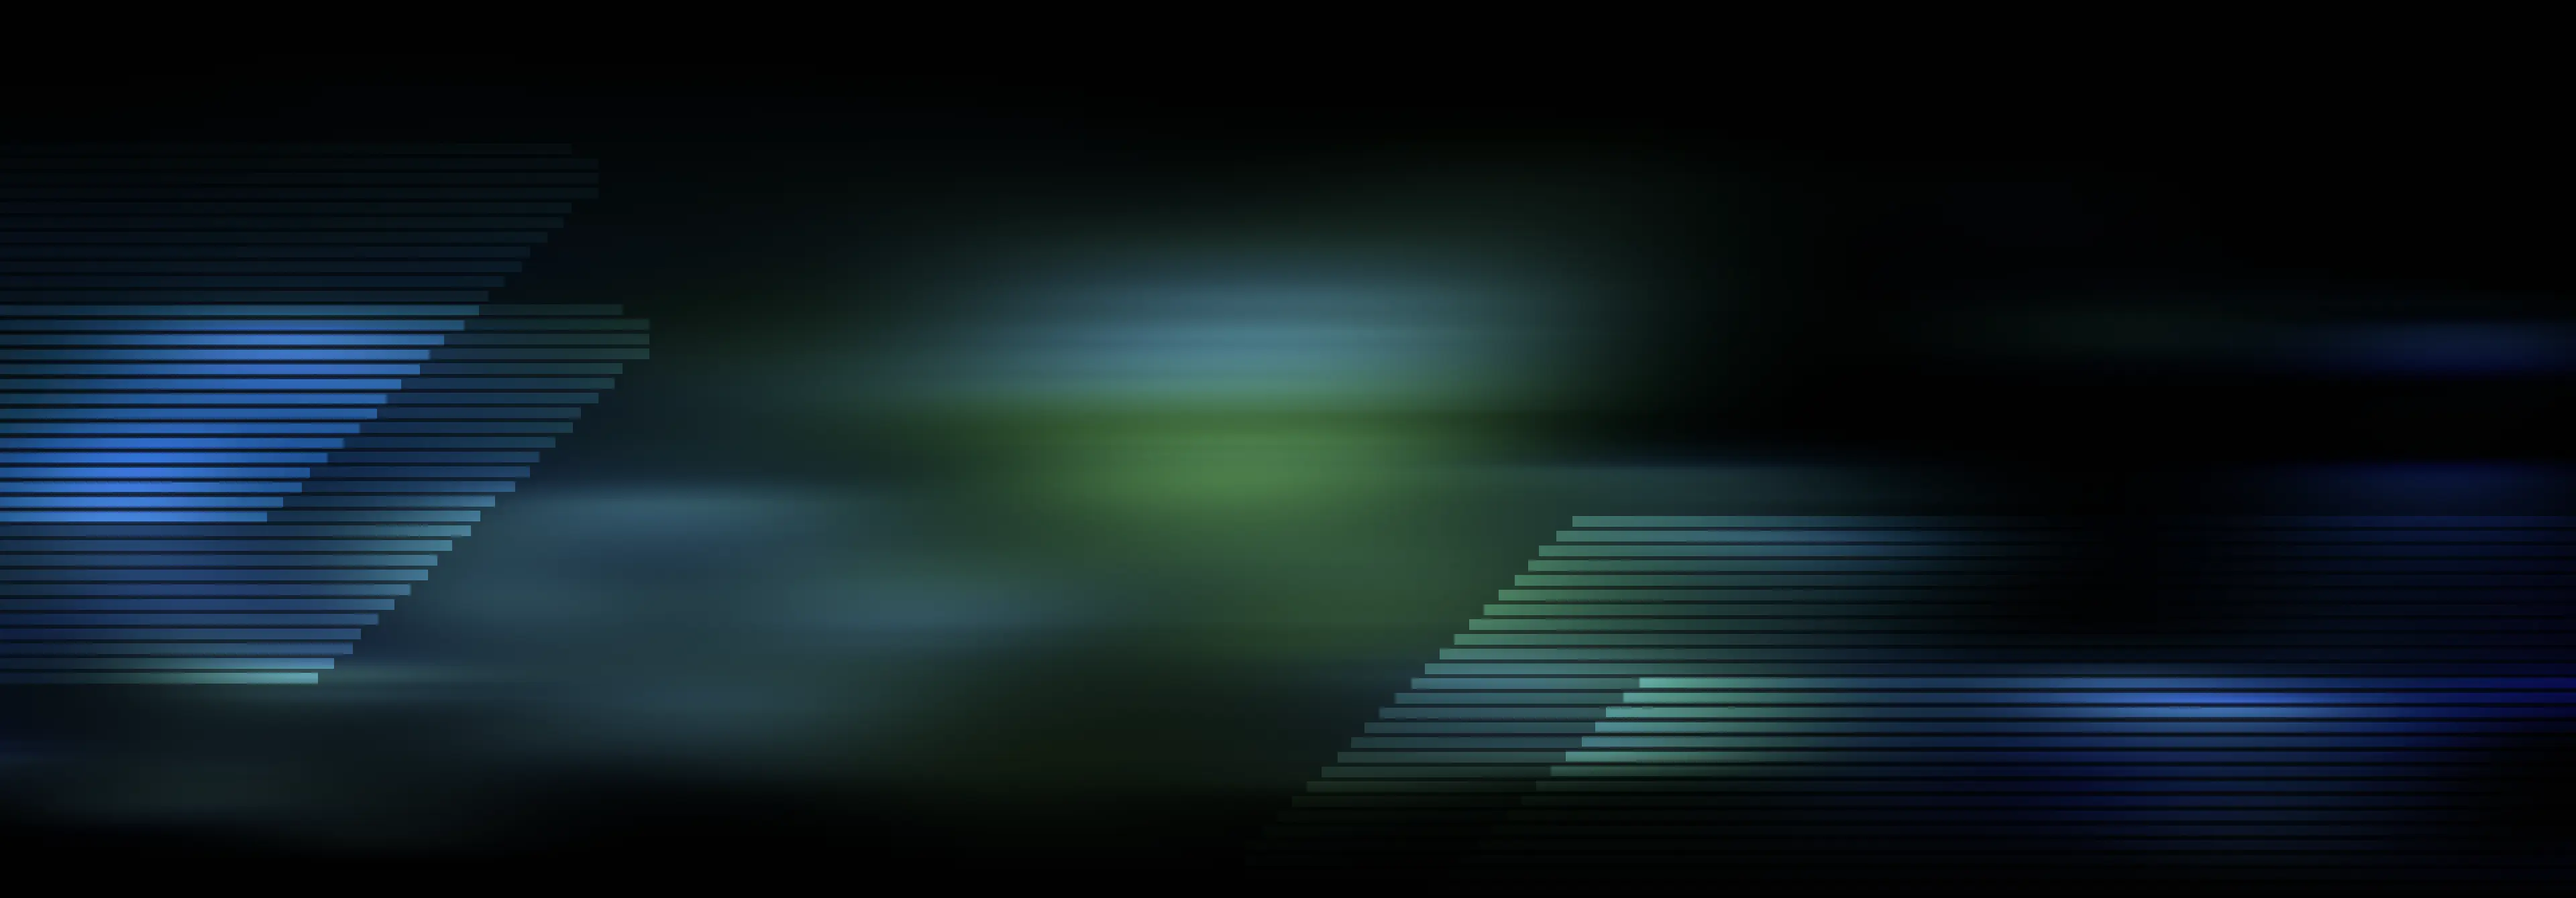
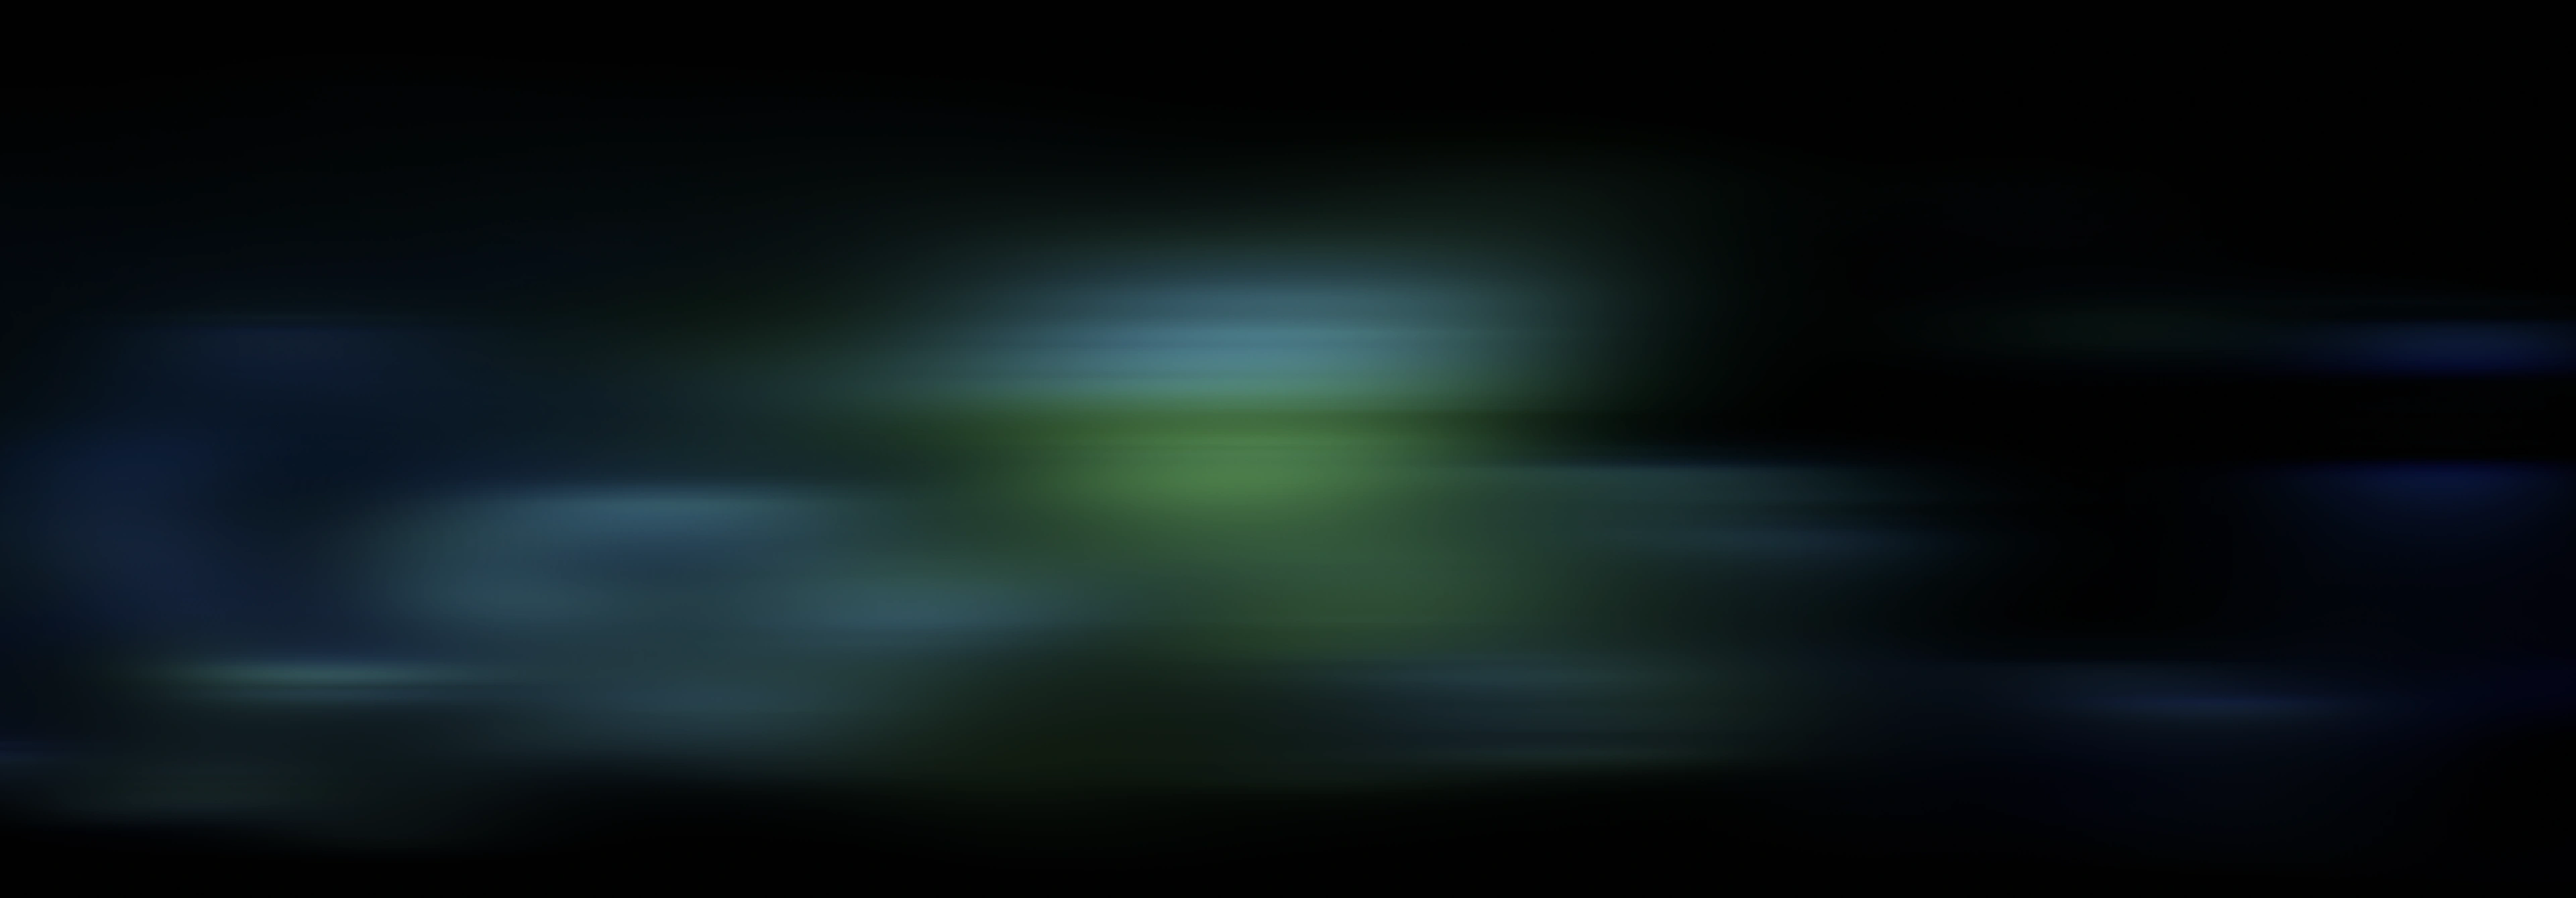
Fix images, header, footer styles

Changed region(s): [[0.5, 0.5507, 1.0, 0.9485], [0.0, 0.3366, 0.25, 0.7649], [0.9062, 0.5507, 0.9688, 0.6119]]

diff --git a/apps/web/src/components/solutions/decor.v2.tsx b/apps/web/src/components/solutions/decor.v2.tsx
@@ -7,15 +7,48 @@ export type DecorProps = {
 
 export const Decor = ({ imageSrc }: DecorProps) => {
   return (
-    <div className="relative pointer-events-none">
+    <div className="relative pointer-events-none h-0 xl:my-[40px]">
       {imageSrc && (
-        <Image
-          className="top-0 left-0 !b-auto h-auto object-cover -translate-y-1/2  min-h-[320px]"
-          src={imageSrc}
-          alt=""
-          fill={true}
-          loading="lazy"
-        />
+        <div className="relative top-0 left-0 h-[300px] xl:h-[600px] -translate-y-1/2  min-h-[300px] overflow-hidden">
+          <div
+            className="absolute top-0 left-0 w-full h-full bg-[length:100%_100%] bg-center"
+            style={{ backgroundImage: `url(${imageSrc})` }}
+          />
+          <div className="absolute top-[50%] left-0 w-full h-0">
+            <Image
+              className="object-cover max-w-none absolute bottom-[-100px] left-[-450px] md:left-[-200px] xl:bottom-[-200px] xl:left-[-1000px] w-[706px] h-[142px] xl:w-[1411px] xl:h-[283px] mix-blend-overlay"
+              src={"/src/img/solutions/decoration-left-part.svg"}
+              alt=""
+              width="1411"
+              height="283"
+              loading="lazy"
+            />
+            <Image
+              className="object-cover max-w-none absolute bottom-[-40px] left-[-470px] md:left-[-220px] xl:bottom-[-80px] xl:left-[-1020px] w-[706px] h-[142px] xl:w-[1411px] xl:h-[283px] mix-blend-overlay"
+              src={"/src/img/solutions/decoration-left-part.svg"}
+              alt=""
+              width="1411"
+              height="283"
+              loading="lazy"
+            />
+            <Image
+              className="object-cover max-w-none absolute top-[20px] md:top-[-20px] right-[-260px] xl:top-[0] xl:right-[-100px] w-[472px] h-[142px] xl:w-[944px] xl:h-[283px] mix-blend-overlay"
+              src={"/src/img/solutions/decoration-right-part.svg"}
+              alt=""
+              width="944"
+              height="283"
+              loading="lazy"
+            />
+            <Image
+              className="object-cover max-w-none absolute top-[80px] md:top-[40px] right-[-300px] xl:top-[100px] xl:right-[-100px] w-[472px] h-[142px] xl:w-[944px] xl:h-[283px] mix-blend-overlay"
+              src={"/src/img/solutions/decoration-right-part.svg"}
+              alt=""
+              width="944"
+              height="283"
+              loading="lazy"
+            />
+          </div>
+        </div>
       )}
     </div>
   );

diff --git a/apps/web/src/components/solutions/hero.v2.tsx b/apps/web/src/components/solutions/hero.v2.tsx
@@ -213,7 +213,7 @@ export const SolutionHero: React.FC<SolutionHeroProps> = ({
                     <div className="text-[20px] xl:text-[40px] leading-none uppercase font-light">
                       {stat.value}
                     </div>
-                    <div className="mt-[4px] md:mt-[8px] text-[16px] md:text-[18px] leading-none font-medium">
+                    <div className="mt-[6px] md:mt-[8px] text-[14px] md:text-[18px] font-medium leading-[1.42] md:leading-[1.44] xl:leading-[1.33]">
                       {stat.label}
                     </div>
                   </div>
@@ -233,6 +233,7 @@ export const SolutionHero: React.FC<SolutionHeroProps> = ({
                         width={114}
                         height={152}
                         className="!h-auto w-[80px] md:w-[70px] xl:w-[114px]"
+                        quality={100}
                       />
                     </div>
                   )}
@@ -244,7 +245,7 @@ export const SolutionHero: React.FC<SolutionHeroProps> = ({
                         </p>
                       )}
                       {reportDescription && (
-                        <p className="text-sm md:text-base opacity-70 mb-0 mt-[3px] tracking-[-0.14px] md:tracking-[-0.16px]">
+                        <p className="text-[14px] md:text-base opacity-70 mb-0 mt-[3px] tracking-[-0.14px] md:tracking-[-0.16px]">
                           {reportDescription}
                         </p>
                       )}

diff --git a/apps/web/src/component-library/selection-color.tsx b/apps/web/src/component-library/selection-color.tsx
@@ -1,0 +1,48 @@
+/**
+ * SelectionColor component for setting CSS custom properties for text selection colors.
+ *
+ * @component
+ *
+ * @param {Object} props
+ * @param {string} [props.selectionColor] - The background color for text selection.
+ * @param {string} [props.selectionTextColor] - The text color for selected text.
+ *
+ * @example
+ * <SelectionColor selectionColor="#007bff" selectionTextColor="#ffffff" />
+ */
+
+import React, { useEffect } from "react";
+
+interface SelectionColorProps {
+  selectionColor?: string;
+  selectionTextColor?: string;
+}
+
+export const SelectionColor: React.FC<SelectionColorProps> = ({
+  selectionColor,
+  selectionTextColor,
+}) => {
+  useEffect(() => {
+    const root = document.documentElement;
+
+    if (selectionColor) {
+      root.style.setProperty("--selection-color", selectionColor);
+    }
+
+    if (selectionTextColor) {
+      root.style.setProperty("--selection-text-color", selectionTextColor);
+    }
+
+    // Cleanup function to remove the CSS variables when component unmounts
+    return () => {
+      if (selectionColor) {
+        root.style.removeProperty("--selection-color");
+      }
+      if (selectionTextColor) {
+        root.style.removeProperty("--selection-text-color");
+      }
+    };
+  }, [selectionColor, selectionTextColor]);
+
+  return null;
+};

diff --git a/apps/web/src/components/header/HeaderListSolutions.js b/apps/web/src/components/header/HeaderListSolutions.js
@@ -14,7 +14,7 @@ const HeaderListSolutions = () => {
 
   return (
     <>
-      <div className="d-lg-flex">
+      <div className="xl:flex">
         <div>
           <div className="text-uppercase py-2 d-flex align-items-center">
             <SolutionsToolsSVG className="me-3" />
@@ -243,8 +243,8 @@ const HeaderListSolutions = () => {
           </div>
         </div>
       </div>
-      <div className="d-lg-flex nav-footer">
-        <div className="w-lg-50">
+      <div className="xl:flex nav-footer">
+        <div className="xl:w-1/2">
           <div className="text-uppercase py-2 d-flex align-items-center">
             <SolutionsResourcesSVG className="me-3" />
             {t("nav.solutions.resources.title")}
@@ -271,10 +271,10 @@ const HeaderListSolutions = () => {
           </div>
         </div>
 
-        <div className="divider d-none d-lg-block invisible"></div>
+        <div className="divider d-none xl:block invisible"></div>
 
-        <div className="w-lg-50">
-          <div className="d-none d-lg-block text-uppercase py-2 d-flex align-items-center">
+        <div className="xl:w-1/2">
+          <div className="d-none xl:block text-uppercase py-2 d-flex align-items-center">
             &nbsp;
           </div>
           <div>

diff --git a/apps/web/src/pages/[locale]/solutions/stablecoins.tsx b/apps/web/src/pages/[locale]/solutions/stablecoins.tsx
@@ -19,6 +19,7 @@ import { EmailModal } from "@/components/solutions/EmailModal";
 import { Divider } from "@/components/solutions/divider.v2";
 import { Decor } from "@/components/solutions/decor.v2";
 import { SolutionReport } from "@/components/solutions/report.v2";
+import { SelectionColor } from "@/component-library/selection-color";
 
 const InstitutionalPaymentsPage = () => {
   const t = useTranslations();
@@ -49,6 +50,8 @@ const InstitutionalPaymentsPage = () => {
         description={t("stablecoins.meta.description")}
         socialShare="/src/img/solutions/stablecoins/og-image.webp"
       />
+
+      <SelectionColor selectionColor="#4396FF" selectionTextColor="#000000" />
 
       <div
         id="stablecoins-page"
@@ -92,6 +95,8 @@ const InstitutionalPaymentsPage = () => {
           logos={LOGOS}
           bgSrc="/src/img/solutions/stablecoins/ecosystem-bg.webp"
         />
+
+        <Divider />
 
         <Products
           className="z-1"

diff --git a/apps/web/src/components/Footer/index.js b/apps/web/src/components/Footer/index.js
@@ -41,7 +41,7 @@ const Footer = ({ className = "" }) => {
 
   return (
     <div className={classNames(styles["solFooter"], className)}>
-      <div className="w-full max-w-[1920px] px-[20px] md:px-[32px] xl:px-[72px] pt-[56px] xl:pt-[88px] pb-[136px] md:pb-[164px] xl:pb-[320px] mx-auto bg-[url('/src/img/footer/solana-bg.svg')]  bg-[length:100%_auto] bg-bottom md:bg-[position:center_120%] xl:bg-bottom bg-no-repeat">
+      <div className="w-full max-w-[1440px] px-[20px] md:px-[32px] xl:px-[72px] pt-[56px] xl:pt-[88px] pb-[136px] md:pb-[164px] xl:pb-[320px] mx-auto bg-[url('/src/img/footer/solana-bg.svg')]  bg-[length:100%_auto] bg-bottom md:bg-[position:center_120%] xl:bg-bottom bg-no-repeat">
         <div className="relative grid grid-cols-2 xl:grid-cols-6 gap-[30px]">
           <div className="flex flex-col col-span-2 md:col-span-1 xl:col-span-3">
             <p className={styles["solFooter__foundation"]}>

diff --git a/apps/web/src/pages/[locale]/solutions/btcfi.tsx b/apps/web/src/pages/[locale]/solutions/btcfi.tsx
@@ -15,6 +15,7 @@ import { Performance } from "@/components/solutions/performance.v2";
 import { LatestNews } from "@/components/solutions/latest-news.v2";
 import { Divider } from "@/components/solutions/divider.v2";
 import { SingleVideo } from "@/components/solutions/single-video.v2";
+import { SelectionColor } from "@/component-library/selection-color";
 
 const InstitutionalPaymentsPage = () => {
   const t = useTranslations();
@@ -51,6 +52,8 @@ const InstitutionalPaymentsPage = () => {
         description={t("btcfi.meta.description")}
         socialShare="/src/img/solutions/btcfi/og-image.webp"
       />
+
+      <SelectionColor selectionColor="#FFBF00" selectionTextColor="#000000" />
 
       <div id="btcfi-page" aria-labelledby="hero-title" className="bg-black">
         <SolutionHero

diff --git a/apps/web/src/pages/[locale]/solutions/consumer.tsx b/apps/web/src/pages/[locale]/solutions/consumer.tsx
@@ -14,6 +14,7 @@ import { LOGOS, PRODUCTS, PROJECTS, VIDEOS } from "@/data/solutions/consumer";
 import { SolutionReport } from "@/components/solutions/report.v2";
 import { Divider } from "@/components/solutions/divider.v2";
 import { Decor } from "@/components/solutions/decor.v2";
+import { SelectionColor } from "@/component-library/selection-color";
 
 const ConsumerPage = () => {
   const t = useTranslations();
@@ -49,6 +50,8 @@ const ConsumerPage = () => {
         description={t("consumer.meta.description")}
         socialShare="/src/img/solutions/consumer/og-image.webp"
       />
+
+      <SelectionColor selectionColor="#CFF15E" selectionTextColor="#000000" />
 
       <div id="consumer-page" className="bg-black" aria-labelledby="hero-title">
         <SolutionHero

diff --git a/apps/web/src/pages/[locale]/solutions/institutional-payments.tsx b/apps/web/src/pages/[locale]/solutions/institutional-payments.tsx
@@ -21,6 +21,7 @@ import { Performance } from "@/components/solutions/performance.v2";
 import { Divider } from "@/components/solutions/divider.v2";
 import { Decor } from "@/components/solutions/decor.v2";
 import { SolutionReport } from "@/components/solutions/report.v2";
+import { SelectionColor } from "@/component-library/selection-color";
 
 const InstitutionalPaymentsPage = () => {
   const t = useTranslations();
@@ -51,6 +52,8 @@ const InstitutionalPaymentsPage = () => {
         description={t("institutional-payments.meta.description")}
         socialShare="/src/img/solutions/institutional-payments/og-image.webp"
       />
+
+      <SelectionColor selectionColor="#F48252" selectionTextColor="#000000" />
 
       <div
         id="institutional-payments-page"

diff --git a/apps/web/src/components/solutions/projects.v2.tsx b/apps/web/src/components/solutions/projects.v2.tsx
@@ -60,7 +60,7 @@ export const Projects = ({
     <section className="relative overflow-hidden bg-black text-white text-left">
       <div className="py-[64px] md:py-[112px] xl:py-[160px]">
         <div className="max-w-[1440px] mx-auto px-[20px] md:px-[32px] xl:px-[40px]">
-          <div className="flex flex-col xl:flex-row gap-4 xl:items-end justify-center mb-[32px] xl:mb-[64px] mx-auto">
+          <div className="flex flex-col xl:flex-row gap-4 xl:items-end mb-[32px] xl:mb-[64px] justify-start">
             <h2 className="font-brand font-medium leading-[1.25] md:leading-[1.1] xl:leading-[1.125] text-[32px] md:text-[40px] xl:text-[64px] max-w-xl mb-0 tracking-[-1.28px] md:tracking-[-1.6px] xl:tracking-[-2.56px]">
               {title}
             </h2>

diff --git a/apps/web/src/pages/[locale]/solutions/defi.tsx b/apps/web/src/pages/[locale]/solutions/defi.tsx
@@ -14,6 +14,7 @@ import { LOGOS, PRODUCTS, PROJECTS, VIDEOS } from "@/data/solutions/defi";
 import { SolutionReport } from "@/components/solutions/report.v2";
 import { Divider } from "@/components/solutions/divider.v2";
 import { Decor } from "@/components/solutions/decor.v2";
+import { SelectionColor } from "@/component-library/selection-color";
 
 const DeFiPage = () => {
   const t = useTranslations();
@@ -49,6 +50,8 @@ const DeFiPage = () => {
         description={t("defi.meta.description")}
         socialShare="/src/img/solutions/defi/og-image.webp"
       />
+
+      <SelectionColor selectionColor="#55E9AB" selectionTextColor="#000000" />
 
       <div id="defi-page" className="bg-black" aria-labelledby="hero-title">
         <SolutionHero

diff --git a/apps/web/src/pages/[locale]/solutions/ai.tsx b/apps/web/src/pages/[locale]/solutions/ai.tsx
@@ -11,6 +11,7 @@ import { withLocales } from "@workspace/i18n/routing";
 import { LOGOS, PRODUCTS, PROJECTS, VIDEOS } from "@/data/solutions/ai";
 import { Divider } from "@/components/solutions/divider.v2";
 import { Decor } from "@/components/solutions/decor.v2";
+import { SelectionColor } from "@/component-library/selection-color";
 
 const AiPage = () => {
   const t = useTranslations();
@@ -22,6 +23,8 @@ const AiPage = () => {
         description={t("ai-solution.meta.description")}
         socialShare="/src/img/solutions/ai/og-image.webp"
       />
+
+      <SelectionColor selectionColor="#F48252" selectionTextColor="#000000" />
 
       <div id="ai-page" className="bg-black" aria-labelledby="hero-title">
         <SolutionHero
